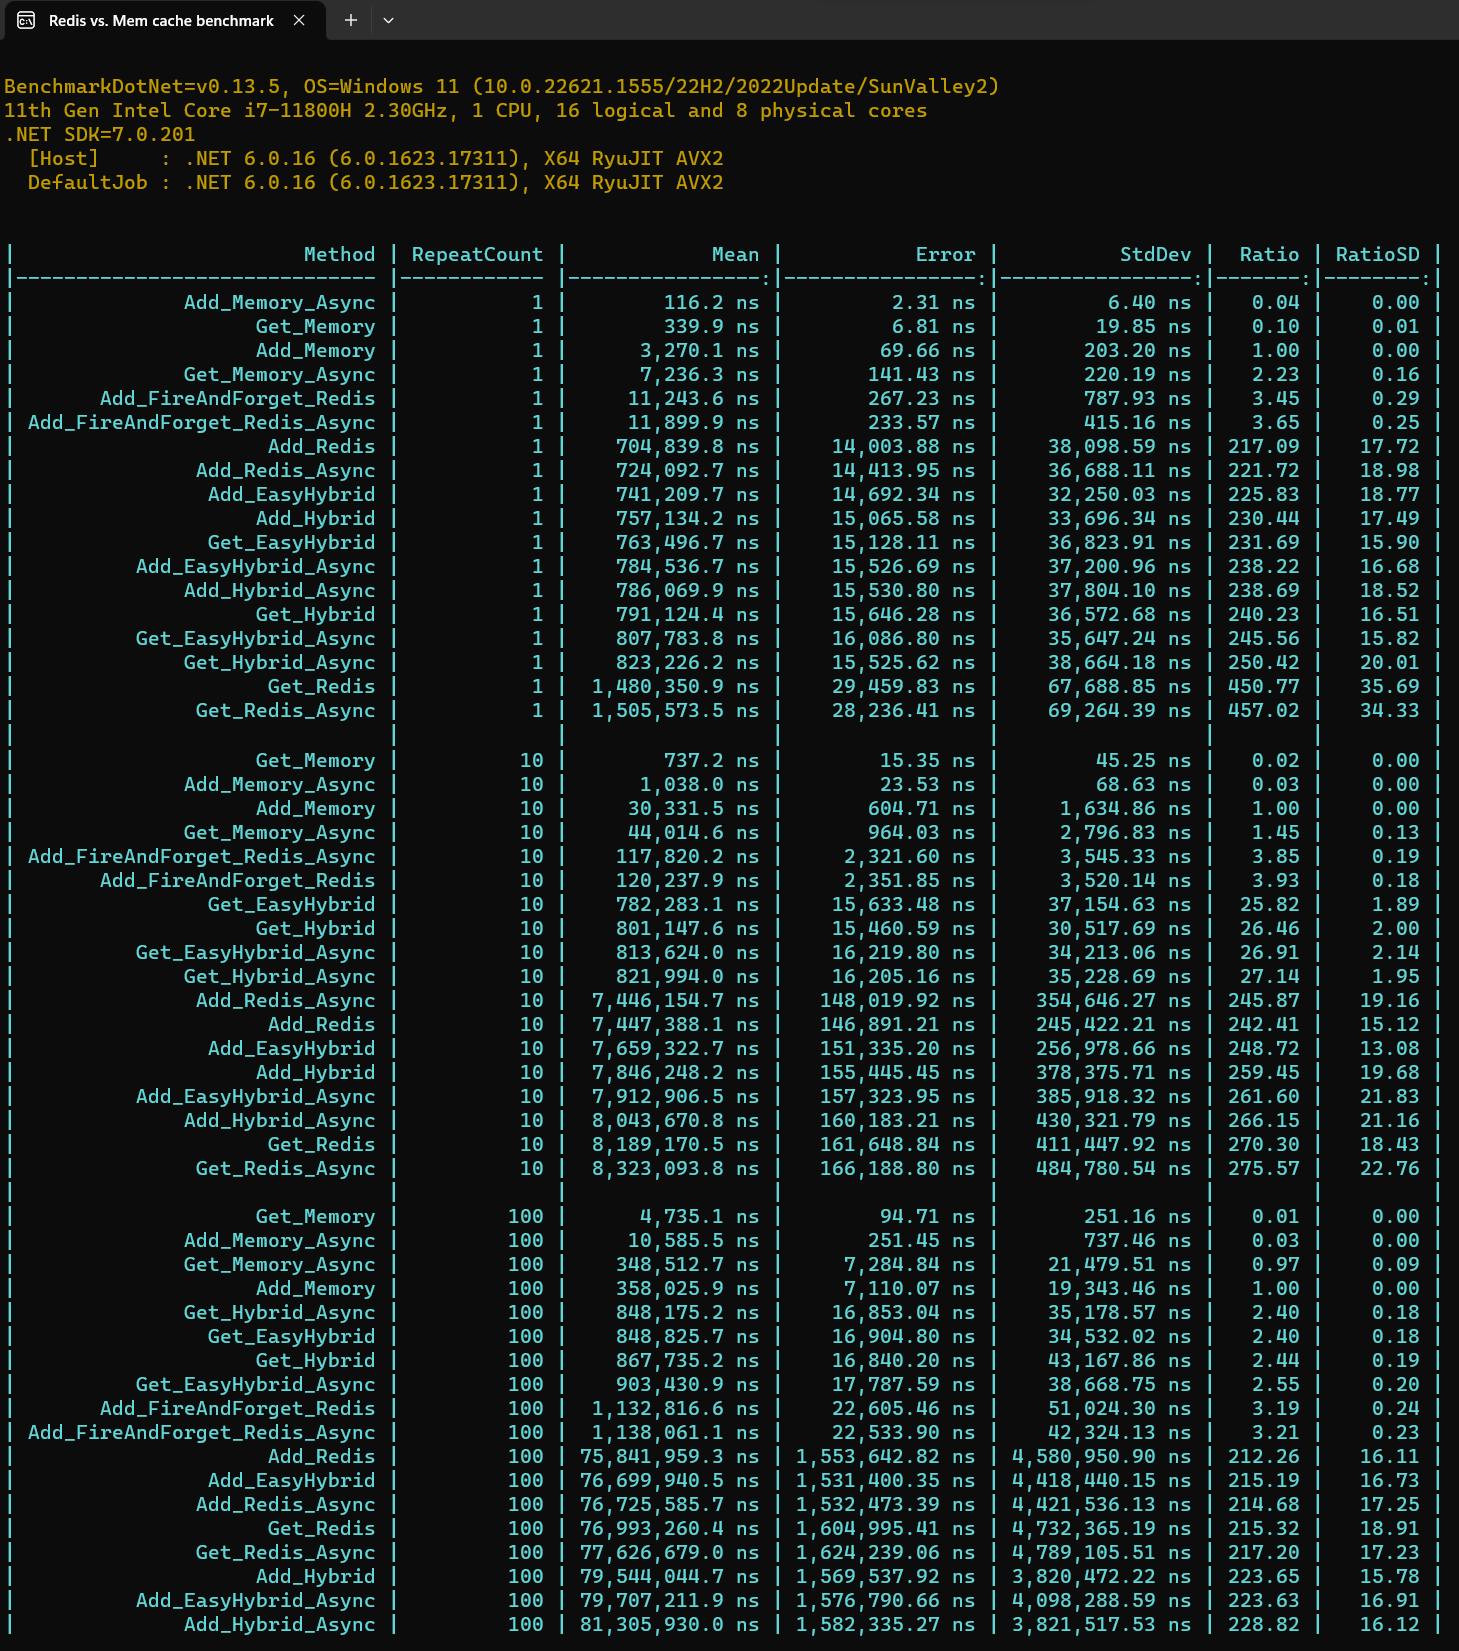
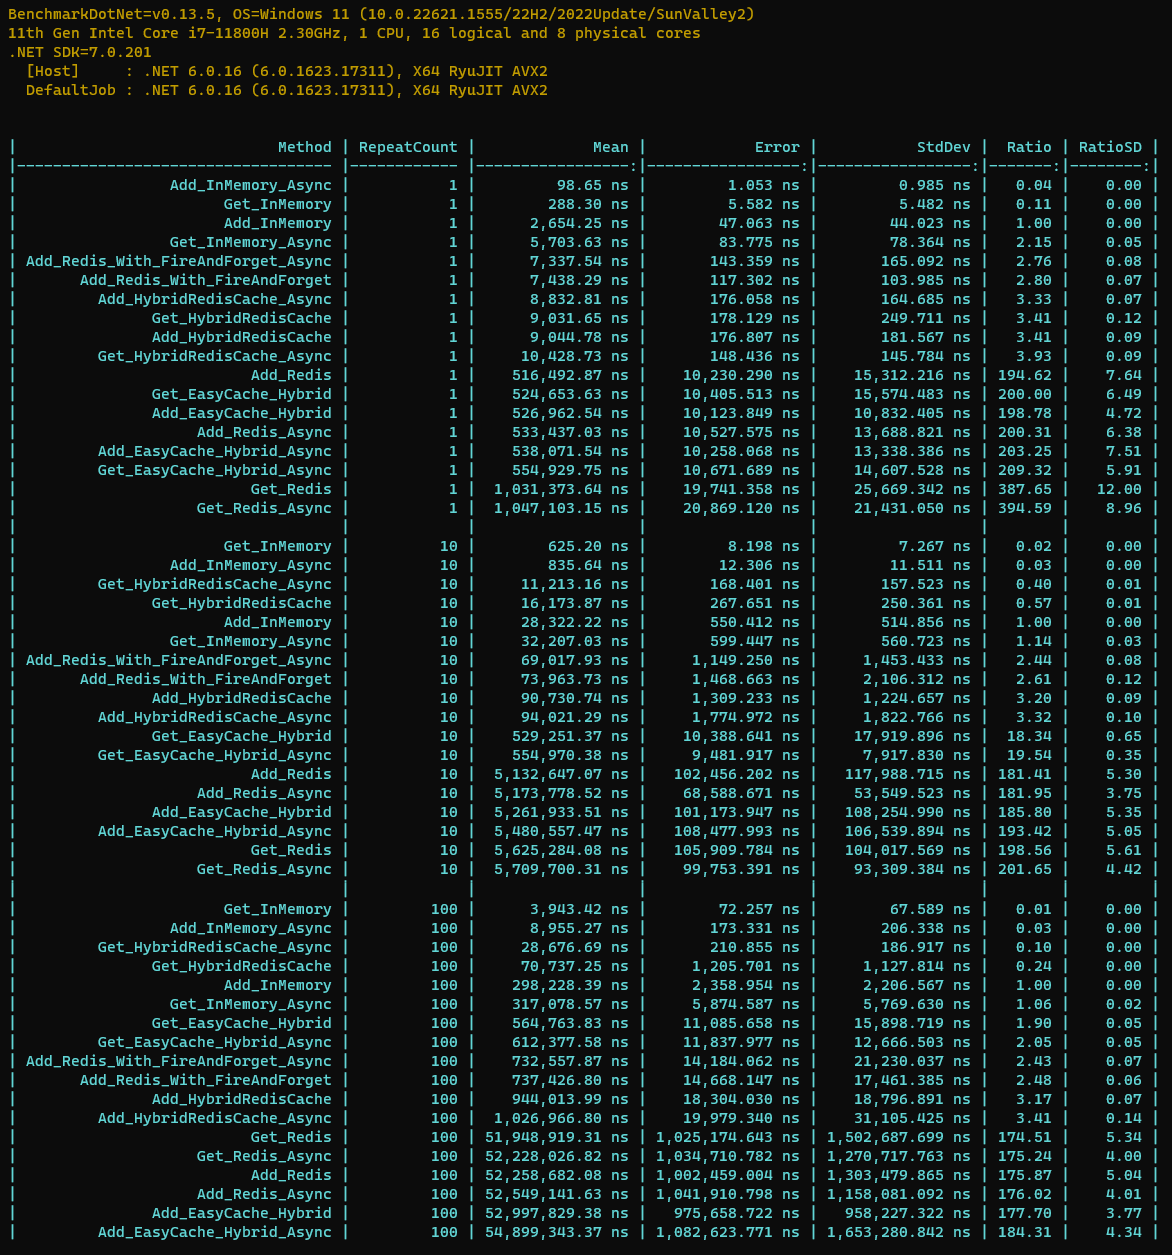
updated benchmarks

Changed region(s): [[0.0, 0.0, 1.0, 0.9944]]

diff --git a/src/HybridRedisCache.Benchmark/BenchmarkManager.cs b/src/HybridRedisCache.Benchmark/BenchmarkManager.cs
@@ -1,4 +1,5 @@
 using BenchmarkDotNet.Attributes;
+using BenchmarkDotNet.Configs;
 using Microsoft.Extensions.Caching.Memory;
 using RedisCache.Benchmark;
 using StackExchange.Redis;
@@ -6,10 +7,14 @@ using System.Text.Json;
 
 namespace HybridRedisCache.Benchmark;
 
-//[MemoryDiagnoser]
-[Orderer(BenchmarkDotNet.Order.SummaryOrderPolicy.FastestToSlowest)]
+[MemoryDiagnoser]
+[Orderer(BenchmarkDotNet.Order.SummaryOrderPolicy.FastestToSlowest, BenchmarkDotNet.Order.MethodOrderPolicy.Alphabetical)]
+[GroupBenchmarksBy(BenchmarkLogicalGroupRule.ByCategory)]
+[RankColumn]
+[CategoriesColumn]
 public class BenchmarkManager
 {
+    ConnectionMultiplexer _redisConnection;
     IMemoryCache _memCache;
     IRedisCacheService _redisCache;
     EasyHybridCache _easyHybridCache;
@@ -24,23 +29,23 @@ public class BenchmarkManager
     static Lazy<SampleModel> _singleModel = new Lazy<SampleModel>(() => _data[0], true);
     static Lazy<SampleModel> _singleWorseModel = new Lazy<SampleModel>(() => _data[1], true);
 
-    [Params(1, 10, 100)]
-    public int RepeatCount { get; set; }
+    //[Params(1, 10, 100)]
+    public int RepeatCount { get; set; } = 1;
 
     [GlobalSetup]
     public void GlobalSetup()
     {
         // Write your initialization code here
-        var connection = ConnectionMultiplexer.Connect($"{redisIP}:{redisPort}");
-        _redisCache = new RedisCacheService(connection);
+        _redisConnection = ConnectionMultiplexer.Connect($"{redisIP}:{redisPort}");
+        _redisCache = new RedisCacheService(_redisConnection);
         _memCache = new MemoryCache(new MemoryCacheOptions());
         _easyHybridCache = new EasyHybridCache(redisIP, redisPort);
         _data ??= Enumerable.Range(0, 10000).Select(_ => SampleModel.Factory()).ToArray();
         _hybridCache = new HybridCache(new HybridCachingOptions()
         {
             InstancesSharedName = nameof(BenchmarkManager),
-            DefaultDistributedExpirationTime = TimeSpan.FromMinutes(120),
-            DefaultLocalExpirationTime = TimeSpan.FromMinutes(120),
+            DefaultDistributedExpirationTime = TimeSpan.FromMinutes(200),
+            DefaultLocalExpirationTime = TimeSpan.FromMinutes(200),
             RedisCacheConnectString = $"{redisIP}:{redisPort}",
             ThrowIfDistributedCacheError = false,
             BusRetryCount = 0
@@ -55,7 +60,16 @@ public class BenchmarkManager
             _memCache.Set(KeyPrefix + i, JsonSerializer.Serialize(_data[i]), DateTimeOffset.Now.AddSeconds(ExpireDurationSecond));
     }
 
-    [Benchmark]
+    [GlobalCleanup]
+    public void Cleanup()
+    {
+        _memCache.Dispose();
+        _redisCache.Clear();
+        _redisConnection.Dispose();
+        _hybridCache.Dispose();
+    }
+
+    [BenchmarkCategory("Write"), Benchmark]
     public async Task Add_InMemory_Async()
     {
         // write cache
@@ -63,7 +77,7 @@ public class BenchmarkManager
             await _memCache.GetOrCreateAsync(KeyPrefix + i, _ => Task.FromResult(JsonSerializer.Serialize(_data[i])));
     }
 
-    [Benchmark]
+    [BenchmarkCategory("Write"), Benchmark]
     public void Add_Redis()
     {
         // write cache
@@ -71,7 +85,7 @@ public class BenchmarkManager
             _redisCache.AddOrUpdate(KeyPrefix + i, _data[i], DateTimeOffset.Now.AddSeconds(ExpireDurationSecond));
     }
 
-    [Benchmark]
+    [BenchmarkCategory("Write"), Benchmark]
     public async Task Add_Redis_Async()
     {
         // write cache
@@ -79,7 +93,7 @@ public class BenchmarkManager
             await _redisCache.AddOrUpdateAsync(KeyPrefix + i, _data[i], DateTimeOffset.Now.AddSeconds(ExpireDurationSecond));
     }
 
-    [Benchmark]
+    [BenchmarkCategory("Write"), Benchmark]
     public void Add_Redis_With_FireAndForget()
     {
         // write cache
@@ -87,7 +101,7 @@ public class BenchmarkManager
             _redisCache.AddOrUpdate(KeyPrefix + i, _data[i], DateTimeOffset.Now.AddSeconds(ExpireDurationSecond), true);
     }
 
-    [Benchmark]
+    [BenchmarkCategory("Write"), Benchmark]
     public async Task Add_Redis_With_FireAndForget_Async()
     {
         // write cache
@@ -95,7 +109,7 @@ public class BenchmarkManager
             await _redisCache.AddOrUpdateAsync(KeyPrefix + i, _data[i], DateTimeOffset.Now.AddSeconds(ExpireDurationSecond), true);
     }
 
-    [Benchmark]
+    [BenchmarkCategory("Write"), Benchmark]
     public void Add_EasyCache_Hybrid()
     {
         // write cache
@@ -103,7 +117,7 @@ public class BenchmarkManager
             _easyHybridCache.Set(KeyPrefix + i, _data[i], TimeSpan.FromSeconds(ExpireDurationSecond));
     }
 
-    [Benchmark]
+    [BenchmarkCategory("Write"), Benchmark]
     public async Task Add_EasyCache_Hybrid_Async()
     {
         // write cache
@@ -111,7 +125,7 @@ public class BenchmarkManager
             await _easyHybridCache.SetAsync(KeyPrefix + i, _data[i], TimeSpan.FromSeconds(ExpireDurationSecond));
     }
 
-    [Benchmark]
+    [BenchmarkCategory("Write"), Benchmark]
     public void Add_HybridRedisCache()
     {
         // write cache
@@ -119,7 +133,7 @@ public class BenchmarkManager
             _hybridCache.Set(KeyPrefix + i, _data[i], TimeSpan.FromSeconds(ExpireDurationSecond), TimeSpan.FromSeconds(ExpireDurationSecond), fireAndForget: true);
     }
 
-    [Benchmark]
+    [BenchmarkCategory("Write"), Benchmark]
     public async Task Add_HybridRedisCache_Async()
     {
         // write cache
@@ -127,7 +141,7 @@ public class BenchmarkManager
             await _hybridCache.SetAsync(KeyPrefix + i, _data[i], TimeSpan.FromSeconds(ExpireDurationSecond), TimeSpan.FromSeconds(ExpireDurationSecond), fireAndForget: true);
     }
 
-    [Benchmark]
+    [BenchmarkCategory("Read"), Benchmark]
     public void Get_InMemory()
     {
         // write single cache
@@ -139,7 +153,7 @@ public class BenchmarkManager
                 ThrowIfIsNotMatch(JsonSerializer.Deserialize<SampleModel>(value), _singleModel.Value);
     }
 
-    [Benchmark]
+    [BenchmarkCategory("Read"), Benchmark]
     public async Task Get_InMemory_Async()
     {
         // write single cache
@@ -154,7 +168,7 @@ public class BenchmarkManager
         }
     }
 
-    [Benchmark]
+    [BenchmarkCategory("Read"), Benchmark]
     public void Get_Redis()
     {
         // write single cache
@@ -166,7 +180,7 @@ public class BenchmarkManager
                 ThrowIfIsNotMatch(value, _singleModel.Value);
     }
 
-    [Benchmark]
+    [BenchmarkCategory("Read"), Benchmark]
     public async Task Get_Redis_Async()
     {
         // write single cache
@@ -181,7 +195,7 @@ public class BenchmarkManager
         }
     }
 
-    [Benchmark]
+    [BenchmarkCategory("Read"), Benchmark]
     public void Get_EasyCache_Hybrid()
     {
         // write single cache
@@ -197,7 +211,7 @@ public class BenchmarkManager
         }
     }
 
-    [Benchmark]
+    [BenchmarkCategory("Read"), Benchmark]
     public async Task Get_EasyCache_Hybrid_Async()
     {
         // write single cache
@@ -213,7 +227,7 @@ public class BenchmarkManager
         }
     }
 
-    [Benchmark]
+    [BenchmarkCategory("Read"), Benchmark]
     public void Get_HybridRedisCache()
     {
         // write single cache
@@ -229,7 +243,7 @@ public class BenchmarkManager
         }
     }
 
-    [Benchmark]
+    [BenchmarkCategory("Read"), Benchmark]
     public async Task Get_HybridRedisCache_Async()
     {
         // write single cache
